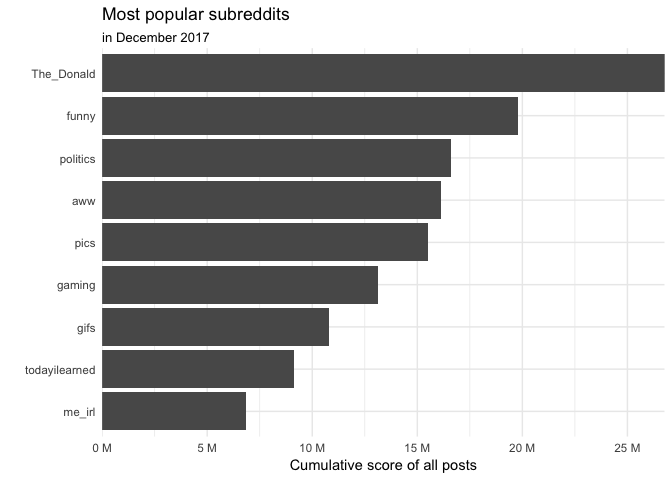
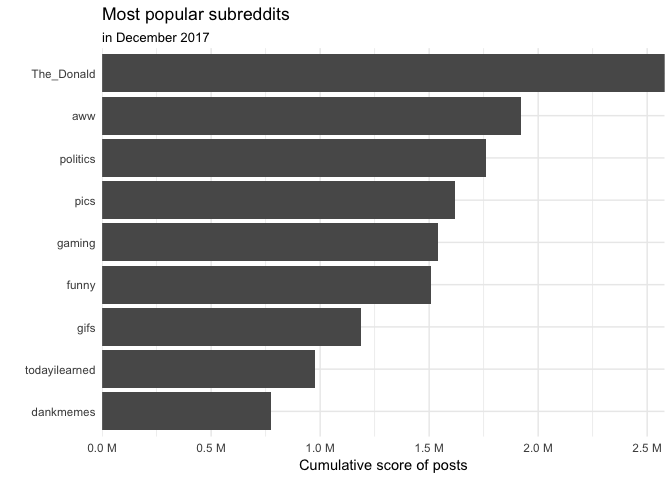
Conduct hypothesis test

diff --git a/project/project.md b/project/project.md
@@ -11,33 +11,33 @@ Introduction
 
 "Reddit is an American social news aggregation, web content rating, and discussion website" (from [Wikipedia](https://en.wikipedia.org/wiki/Reddit)). People who are members of Reddit upload their posts and other people vote and comment on said posts, the posts with the most likes appear more towards the top. They are divided by thematic categories called subreddits, as well as overall categories of top posts, new posts, controversial posts, among others.
 
-TODO: Expand intro
+TODO: Expand introduction
 
 ### Data Set
 
-The data set is comprised of Reddit posts from December 2017, since it was the latest data set we could find and wanted to keep up with the most recent trends. Also, it will be interesting to explore themes related to Christmas. We retrieved it from the Google BigQuery API. The data set contains 33 variables and 10567492 observations.
+The data set is comprised of Reddit posts from December 2017, since it was the latest data set we could find and wanted to keep up with the most recent trends. Also, it will be interesting to explore themes related to Christmas. We retrieved it from the Google BigQuery API. The data set contains 33 variables and 1000000 observations.
 
-TODO: Describe dataset and variables
+Our dataset is made up of 33 variables but for this project, we will only be looking at these variables: `subreddit` (categorical, name of the subreddit the post belongs to), `num_comments` (numerical, the number of comments on the post),`score` (numerical, popularity score of post), `ups` (numerical, amount of up votes the post recieved), `downs` (numerical, amount of down votes the post recieved), `title` (categorical, the title of the post), `selftext` (categorical, the text body on the post), `gilded` (numerical, amount of gold reddit donations from other users), `over_18` ( categorical, true or fale if post is only appropriate for users over the age of 18). The rest of the descriptions for the other variables can be found in our data folder.
 
 ### Research Question
 
-TODO: Explain research question and motivation
+Coincidentally, our team is made up of avid Reddit fans. All three of us are constantly checking it for interesting, insightful, and funny posts. Given that Reddit recieves thousands of posts per day and the little time in the day we have to check Reddit, we all usually only check the "popular" feed. So, it got us thinking that we should learn more about the site we use pretty frequently. Specifically, we want to analyze what makes a Reddit post popular.
 
 Cleaning
 --------
 
 The dataset we acquired is mostly clean; however, there is one thing we need to clean up before we began our analysis. The variable `created_utc` gives the date that the post was created as the difference in milliseconds from January 1st, 1970. This quantity is not very easy to read or interpret, so we convert it to a combination of day, hour, and minute. We do not need to store the month and year since these values are the same for all entries in the dataset.
 
-To check whether our conversion is correct, we can look at the range of the new date variable. We see that the first post in the dataset was on and the latest one was on -. Since this range is exactly the month of December 2017, we can be confident that the conversion was successful.
+To check whether our conversion is correct, we can look at the range of the new date variable. We see that the first post in the dataset was on 2017-12-01 00:00:04 and the latest one was on 2017-12-31 23:59:58. Since this range is exactly the month of December 2017, we can be confident that the conversion was successful.
 
-Word Frequencies
-----------------
+Exploring Popular Subreddits
+----------------------------
 
-As infrequent Reddit users, we do not know much about the various subreddits yet. Hence, we want to start by finding out what the most popular ones are and gain insights into what the posts in each one are about. As a measure of a subreddit's popularity, we decide to use the cumulative score of all of its posts. The plot below shows the nine subreddits with the highest resulting totals.
+As stricty popular-feed Reddit users, we do not know much about the various subreddits yet. Hence, we want to start by finding out what the most popular ones are and gain insights into what the posts in each one are about. As a measure of a subreddit's popularity, we decide to use the cumulative score of all of its posts. The plot below shows the nine subreddits with the highest resulting totals.
 
 ![](project_files/figure-markdown_github/active-subreddits-1.png)
 
-We find that the nine most popular subreddits in descending order are `The_Donald`, `funny`, `politics`, `aww`, `pics`, `gaming`, `gifs`, `todayilearned`, and `me_irl`. We may be able to intuit what most of these subreddits are about from their name alone, but we wanted to know more about the content and central topics in each of them. Therefore, we decided to analyze the most frequent terms in each of these subreddits with the help of the `tidytext` package. We want to focus on the text contained in the title of the posts since it is the first thing that is visible to the users. Furthermore, we decided to filter out stop words such as "the" and "a" because they naturally appear very frequently and do not convey much about the content of any one particular subreddit.
+We find that the nine most popular subreddits in descending order are `The_Donald`, `aww`, `politics`, `pics`, `gaming`, `funny`, `gifs`, `todayilearned`, and `dankmemes`. We may be able to intuit what most of these subreddits are about from their name alone, but we wanted to know more about the content and central topics in each of them. Therefore, we decided to analyze the most frequent terms in each of these subreddits with the help of the `tidytext` package. We want to focus on the text contained in the title of the posts since it is the first thing that is visible to the users. Furthermore, we decided to filter out stop words such as "the" and "a" because they naturally appear very frequently and do not convey much about the content of any one particular subreddit.
 
 ![](project_files/figure-markdown_github/tf-analysis-1.png)
 
@@ -46,12 +46,54 @@ TODO: Discuss results for this visualization
 Sentiment Analysis
 ------------------
 
-One of the major questions we want to explore is whether positive or negative posts are more likely to become popular. Our hypothesis is that negative posts are generally more popular, as psychologists claim that humans have an innate "negativity bias" which draws them toward bad news moreso than good ones (Ito et al. 1998).
+One of the major questions we want to explore is whether positive or negative posts are more popular. Our hypothesis is that negative posts are generally more popular, as psychologists claim that humans have an innate "negativity bias" which draws them toward bad news moreso than good ones (Ito et al. 1998). To test this belief, we need a way to determine the sentiment polarity of each post, i.e. how positive or negative it is. We will use the `afinn` sentiment lexicon, which provides a list of 2476 words, each associated with a score between -3 and +3. Negative words are given a negative score, and positive words are given a positive score. The higher in magnitude the score is, the more extreme the negativity or positivity of the word. For example, the word "death" has a score of -3 whereas the word "love" has a score of +3. In order to determine the overall sentiment of a post, we will simply add up the sentiments of the words contained in it.
+
+We find that the average sentiment score of the posts is 0.151693 with a large standard deviation of 1.9394437. Interestingly, the title with the most positive sentiment is "Ha ha ha ha ha ha ha ha h ha ha ha ha ha ha ha ha ha ha ha ha ha ha ha ha!," which is a result of the word "ha" having a sentiment score of 2. We will not show the most negative post here because it contains a lot of profanity. Next, let's add an indicator variable `sent_class` to the dataframe that is "pos" if the sentiment score is positive, "neg" if the sentiment score is negative, and "neutral" if it is 0.
+
+It turns out that there are a total of 235929 positive posts, 175807 negative posts, and 588264 neutral posts in the dataset, provided that our method of determining sentiment is accurate. Let us examine a few posts from the positive and negative category to see whether the results make sense.
+
+    ## # A tibble: 3 x 2
+    ##   title                                                         sent_class
+    ##   <chr>                                                         <chr>     
+    ## 1 Always tempted to pull out the twins like this at the gym...… pos       
+    ## 2 Unstable was one of my best drafts ever                       pos       
+    ## 3 The benefits are obvious, it just takes discipline            pos
+
+    ## # A tibble: 3 x 2
+    ##   title                                                         sent_class
+    ##   <chr>                                                         <chr>     
+    ## 1 Finally getting started with my bass build! - but I have no … neg       
+    ## 2 "Every time I try to queue up I get \"You failed to accept\"… neg       
+    ## 3 This is why i fear hardcore                                   neg
+
+It appears that the sentiment analysis results match our intuition -- the positively classified titles talk about "best drafts ever" and "obvious benefits," and the negatively classified titles talk about a technical problem with some video game and fears.
+
+Now, we can finally test our hypothesis. The null hypothesis and the alternative hypothesis are as follows.
+
+H0: A post's score is independent of the title's sentiment.
+HA: A post's score depends on the title's sentiment.
+
+For this analysis, we will ignore posts with neutral sentiment and only focus on those with positive or negative sentiment polarity. Before we start, we need to verify whether all conditions for valid simulation based inference are met.
 
 Cats vs. Dogs
 -------------
 
+TODO: Hypothesis test whether dogs or cats are more popular
+
+Modeling Popularity
+-------------------
+
+TODO: Density plot and summary statistics for popularity TODO: Build linear and bayesian model and compare results
+
+Discussion
+----------
+
+TODO: Discuss results
+
 Conclusion
+----------
+
+References
 ----------
 
 Ito, Tiffany A., Jeff T. Larsen, N. Kyle Smith, and John T. Cacioppo. 1998. “Negative Information Weighs More Heavily on the Brain: The Negativity Bias in Evaluative Categorizations.” *Journal of Personality and Social Psychology* 75 (4): 887–900. <https://search.ebscohost.com/login.aspx?direct=true&db=pdh&AN=1998-12834-004&site=ehost-live&scope=site>.
